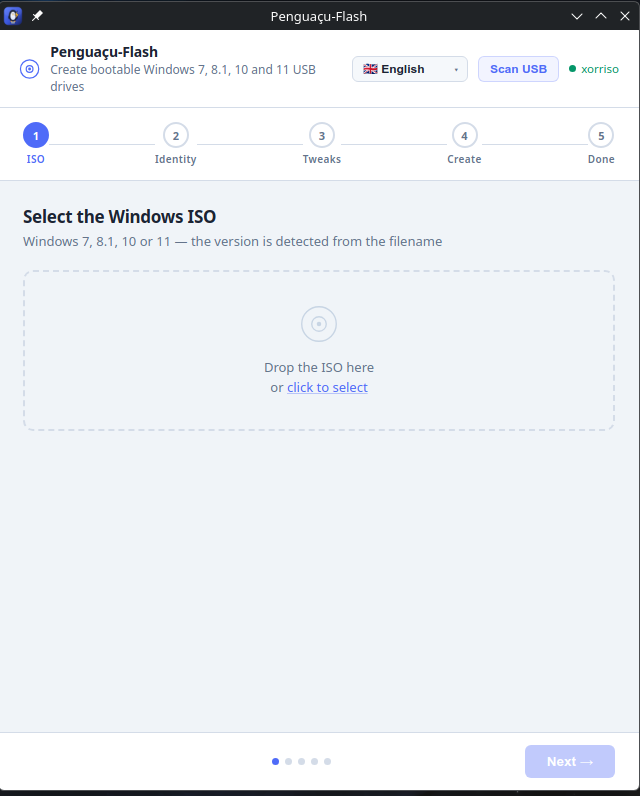
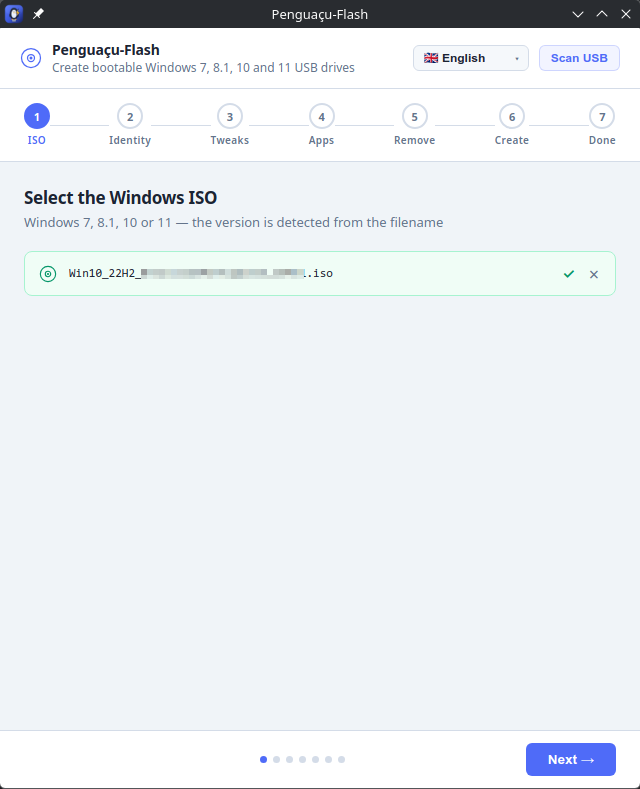
docs: refresh README screenshots for the 7-step wizard
Replaces the five old screenshots with seven new ones covering every step
(ISO, identity, tweaks, pre-installed programs, app removal, create, done)
and updates the screenshot grid captions in all six README languages.

diff --git a/README.ar.md b/README.ar.md
@@ -40,15 +40,17 @@
 
 <div align="center">
 
-| اختر ISO | إصدار مُكتشَف تلقائيًا |
+| اختر ISO | الهوية والإصدار |
 |:--:|:--:|
-| ![اختر ISO](docs/01-select-iso.png) | ![تم اكتشاف ISO](docs/02-iso-detected.png) |
-| **الهوية والإصدار** | **إعدادات الخصوصية** |
-| ![الهوية](docs/03-identity.png) | ![الإعدادات](docs/04-tweaks.png) |
+| ![اختر ISO](docs/01-select-iso.png) | ![الهوية](docs/02-identity.png) |
+| **إعدادات الخصوصية** | **برامج مثبّتة مسبقًا** |
+| ![الإعدادات](docs/03-tweaks.png) | ![التطبيقات](docs/04-apps.png) |
+| **إزالة تطبيقات Windows** | **أنشئ قرص USB الإقلاعي** |
+| ![إزالة التطبيقات](docs/05-remove.png) | ![إنشاء USB](docs/06-create-usb.png) |
 
-**أنشئ قرص USB الإقلاعي**
+**تم!**
 
-<img src="docs/05-create-usb.png" width="440" alt="إنشاء USB إقلاعي" />
+<img src="docs/07-done.png" width="440" alt="تم" />
 
 </div>
 

diff --git a/README.es.md b/README.es.md
@@ -40,15 +40,17 @@ Hacer una USB de instalación de Windows en Linux suele implicar lidiar a mano c
 
 <div align="center">
 
-| Selecciona la ISO | Versión detectada |
+| Selecciona la ISO | Identidad y edición |
 |:--:|:--:|
-| ![Seleccionar ISO](docs/01-select-iso.png) | ![ISO detectada](docs/02-iso-detected.png) |
-| **Identidad y edición** | **Ajustes de privacidad** |
-| ![Identidad](docs/03-identity.png) | ![Ajustes](docs/04-tweaks.png) |
+| ![Seleccionar ISO](docs/01-select-iso.png) | ![Identidad](docs/02-identity.png) |
+| **Ajustes de privacidad** | **Programas preinstalados** |
+| ![Ajustes](docs/03-tweaks.png) | ![Apps](docs/04-apps.png) |
+| **Quitar apps de Windows** | **Crea la USB de arranque** |
+| ![Quitar apps](docs/05-remove.png) | ![Crear USB](docs/06-create-usb.png) |
 
-**Crea la USB de arranque**
+**¡Listo!**
 
-<img src="docs/05-create-usb.png" width="440" alt="Crear USB de arranque" />
+<img src="docs/07-done.png" width="440" alt="Listo" />
 
 </div>
 

diff --git a/README.md b/README.md
@@ -40,15 +40,17 @@ Making a Windows install USB on Linux usually means juggling `parted`, `mkntfs`,
 
 <div align="center">
 
-| Select the ISO | Auto-detected version |
+| Select the ISO | Identity & edition |
 |:--:|:--:|
-| ![Select ISO](docs/01-select-iso.png) | ![ISO detected](docs/02-iso-detected.png) |
-| **Identity & edition** | **Privacy tweaks** |
-| ![Identity](docs/03-identity.png) | ![Tweaks](docs/04-tweaks.png) |
+| ![Select ISO](docs/01-select-iso.png) | ![Identity](docs/02-identity.png) |
+| **Privacy tweaks** | **Pre-installed programs** |
+| ![Tweaks](docs/03-tweaks.png) | ![Apps](docs/04-apps.png) |
+| **Remove Windows apps** | **Create the bootable USB** |
+| ![Remove apps](docs/05-remove.png) | ![Create USB](docs/06-create-usb.png) |
 
-**Create the bootable USB**
+**Done!**
 
-<img src="docs/05-create-usb.png" width="440" alt="Create bootable USB" />
+<img src="docs/07-done.png" width="440" alt="Done" />
 
 </div>
 

diff --git a/README.pt-BR.md b/README.pt-BR.md
@@ -40,15 +40,17 @@ Fazer um pendrive de instalação do Windows no Linux geralmente significa lidar
 
 <div align="center">
 
-| Selecione a ISO | Versão detectada |
+| Selecione a ISO | Identidade & edição |
 |:--:|:--:|
-| ![Selecionar ISO](docs/01-select-iso.png) | ![ISO detectada](docs/02-iso-detected.png) |
-| **Identidade & edição** | **Ajustes de privacidade** |
-| ![Identidade](docs/03-identity.png) | ![Ajustes](docs/04-tweaks.png) |
+| ![Selecionar ISO](docs/01-select-iso.png) | ![Identidade](docs/02-identity.png) |
+| **Ajustes de privacidade** | **Programas pré-instalados** |
+| ![Ajustes](docs/03-tweaks.png) | ![Apps](docs/04-apps.png) |
+| **Remover apps do Windows** | **Crie o pendrive bootável** |
+| ![Remover apps](docs/05-remove.png) | ![Criar pendrive](docs/06-create-usb.png) |
 
-**Crie o pendrive bootável**
+**Pronto!**
 
-<img src="docs/05-create-usb.png" width="440" alt="Criar pendrive bootável" />
+<img src="docs/07-done.png" width="440" alt="Concluído" />
 
 </div>
 

diff --git a/README.zh.md b/README.zh.md
@@ -40,15 +40,17 @@
 
 <div align="center">
 
-| 选择 ISO | 自动识别版本 |
+| 选择 ISO | 身份与版本 |
 |:--:|:--:|
-| ![选择 ISO](docs/01-select-iso.png) | ![已识别 ISO](docs/02-iso-detected.png) |
-| **身份与版本** | **隐私调整** |
-| ![身份](docs/03-identity.png) | ![调整](docs/04-tweaks.png) |
+| ![选择 ISO](docs/01-select-iso.png) | ![身份](docs/02-identity.png) |
+| **隐私调整** | **预装程序** |
+| ![调整](docs/03-tweaks.png) | ![应用](docs/04-apps.png) |
+| **移除 Windows 应用** | **创建可启动 U 盘** |
+| ![移除应用](docs/05-remove.png) | ![创建 U 盘](docs/06-create-usb.png) |
 
-**创建可启动 U 盘**
+**完成！**
 
-<img src="docs/05-create-usb.png" width="440" alt="创建可启动 U 盘" />
+<img src="docs/07-done.png" width="440" alt="完成" />
 
 </div>
 